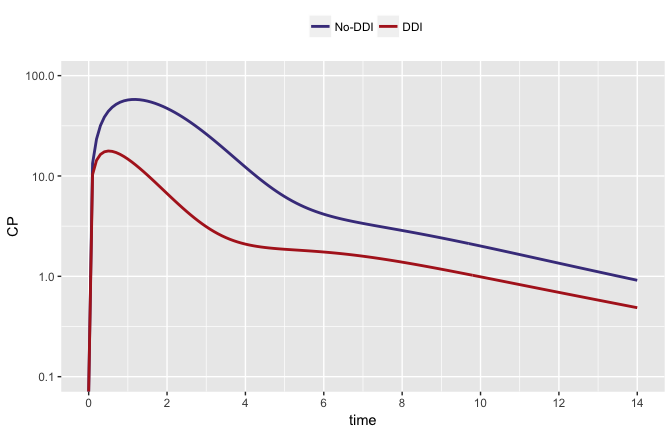
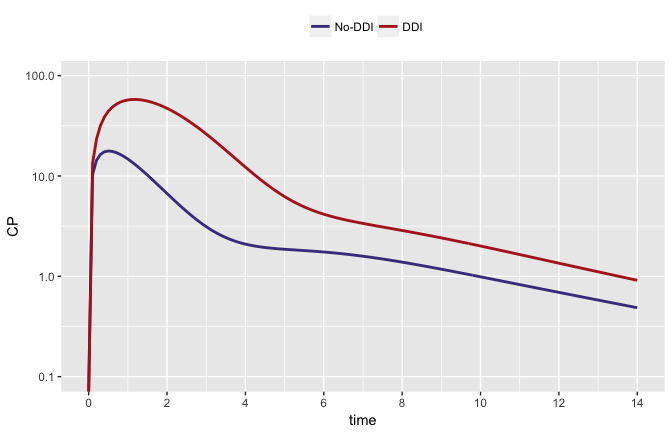
re-code ddi figure

diff --git a/README.md b/README.md
@@ -92,11 +92,11 @@ OATP-DDI model ([Yoshikado et al.](#ddi))
 
 Simulate the DDI
 
-    ddi <- c(ev(amt=2000, cmt=2, ID=1),
-             ev(amt=30,   cmt=1, ID=1))
+    ddi <- c(ev(amt=2000, cmt=2),
+             ev(amt=30,   cmt=1))
 
-    ddi <- as.data.frame(ddi)
-    no_ddi <- filter(ddi, amt==30) %>% mutate(ID=2)
+    ddi <- as.data.frame(ddi) %>% mutate(ID=2)
+    no_ddi <- filter(ddi, amt==30) %>% mutate(ID=1)
 
     data <- bind_rows(no_ddi,ddi)
 
